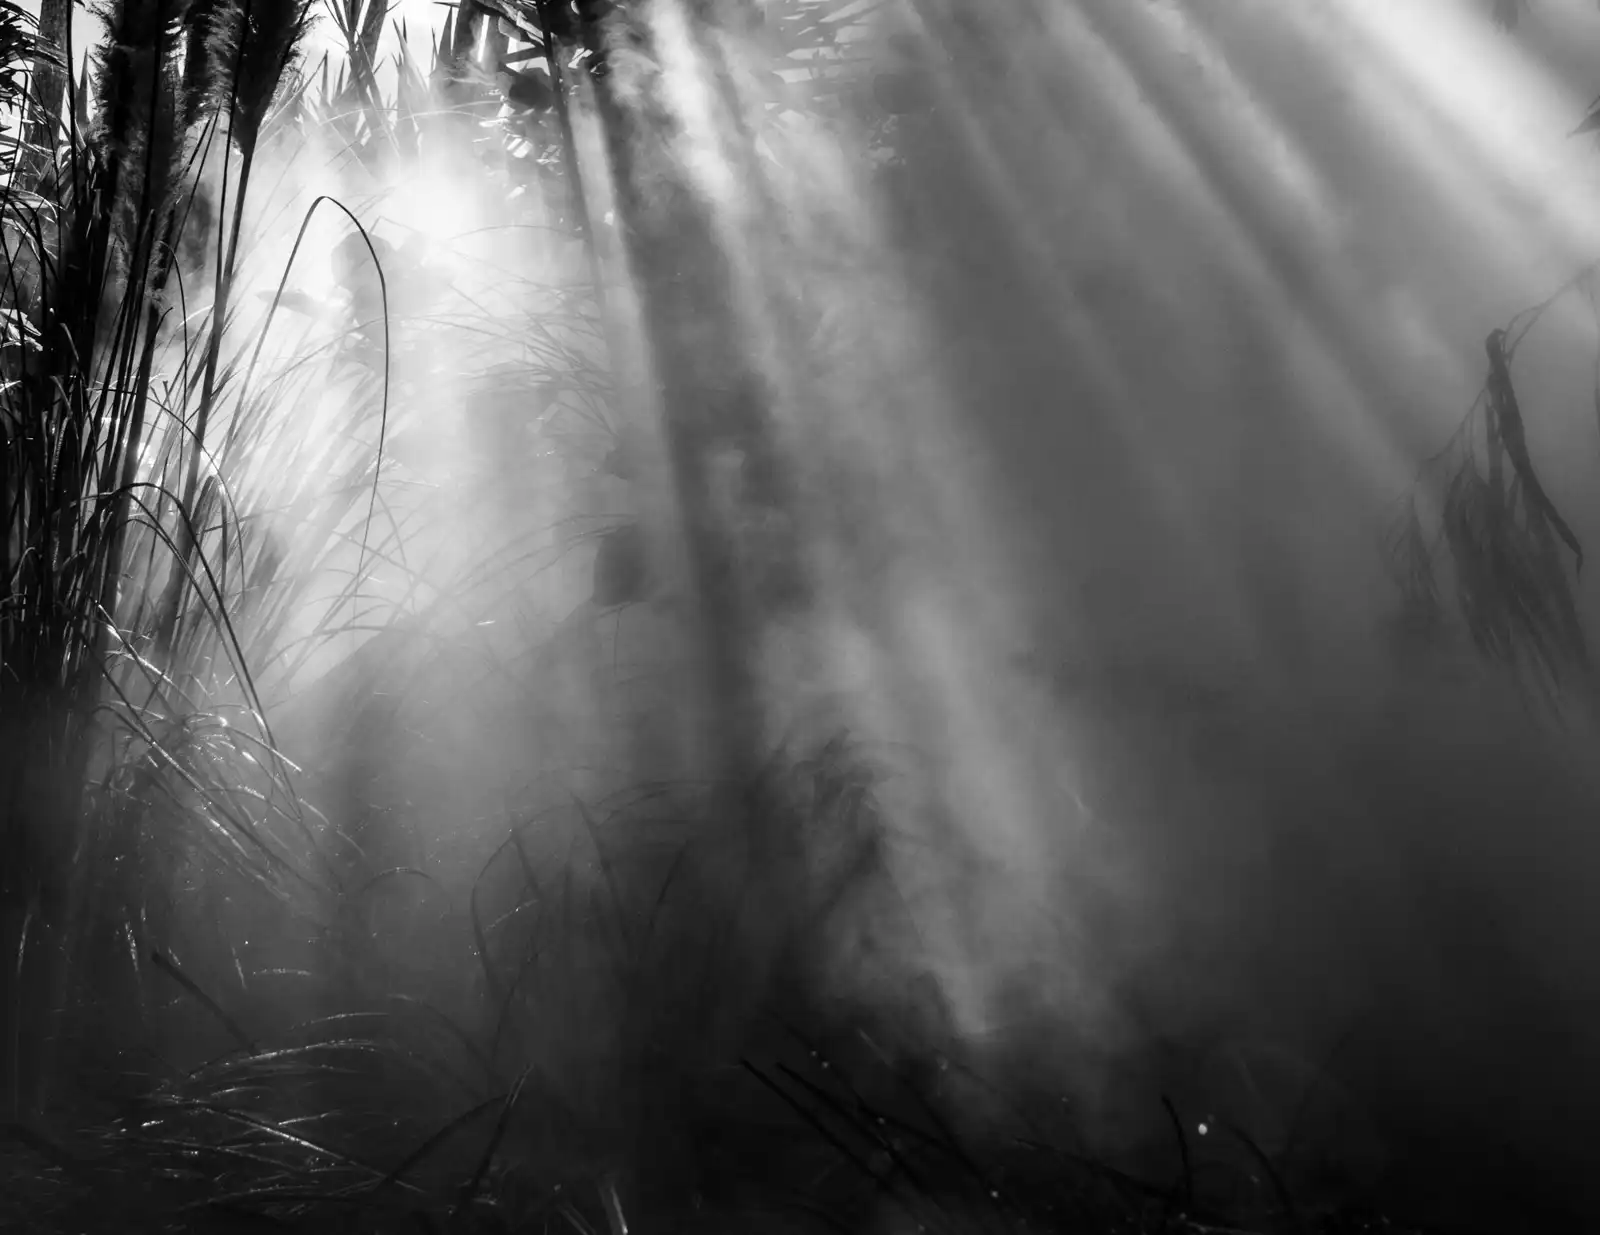
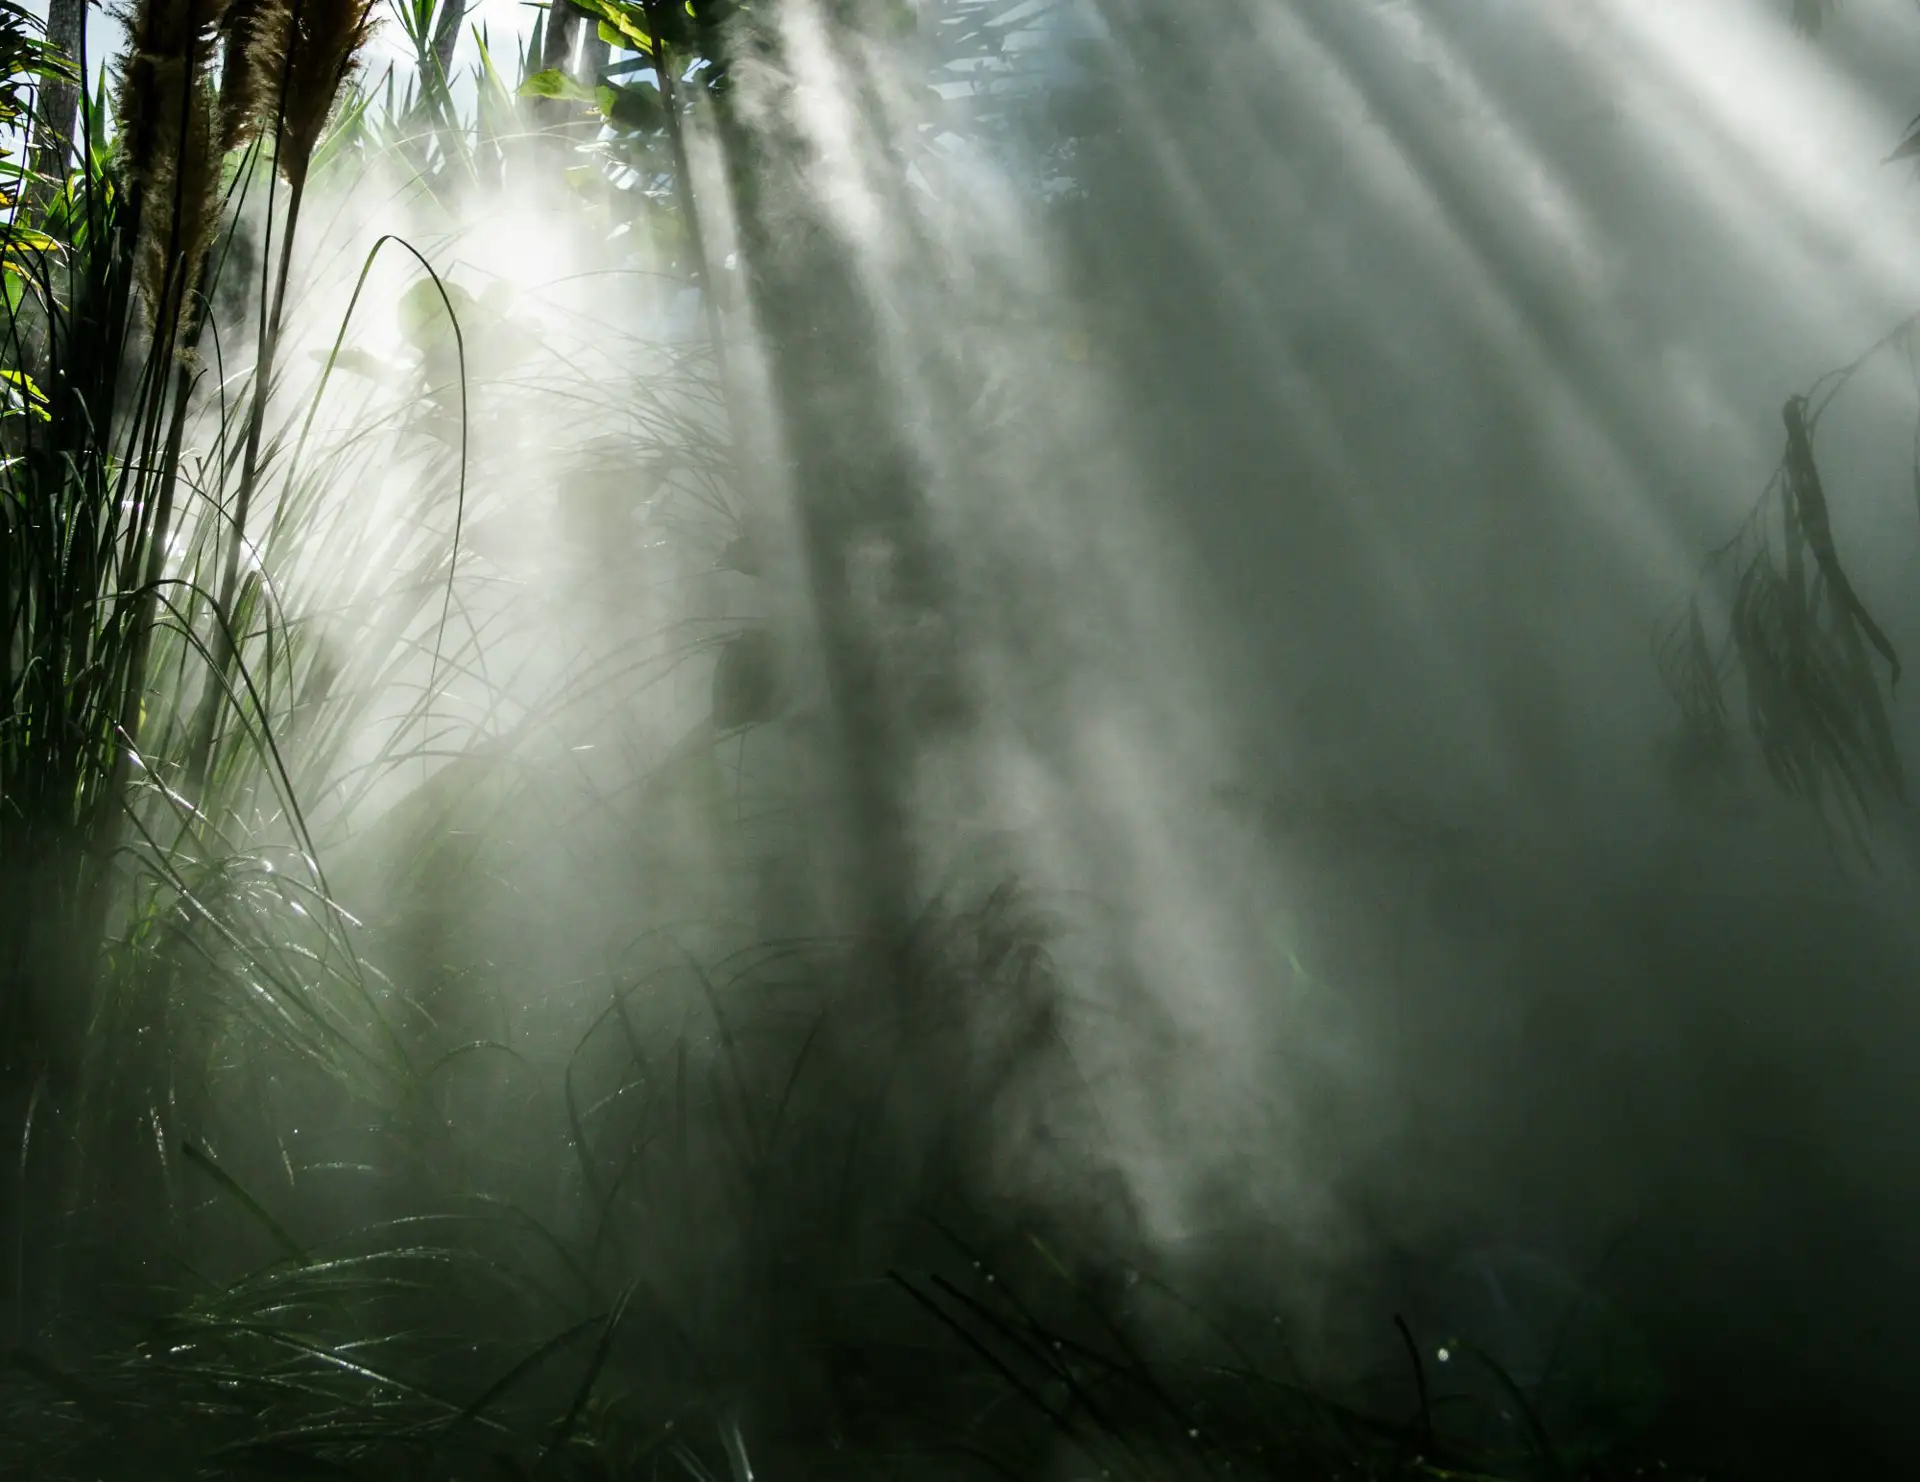
Drop the welcome's green gradient and blobs, show the mist photo in its own colours

diff --git a/app/welcome.css b/app/welcome.css
@@ -12,16 +12,8 @@
   from { opacity: 0; filter: blur(0.375rem); transform: translateY(0.5rem); }
   to { opacity: 1; filter: blur(0); transform: translateY(0); }
 }
-@keyframes a0-drift-a {
-  from { transform: translate3d(0, 0, 0) scale(1); }
-  to { transform: translate3d(var(--a0-drift-x), var(--a0-drift-y), 0) scale(1.12); }
-}
-@keyframes a0-drift-b {
-  from { transform: translate3d(0, 0, 0) scale(1.08); }
-  to { transform: translate3d(calc(var(--a0-drift-x) * -1.2), calc(var(--a0-drift-y) * -0.8), 0) scale(1); }
-}
 
-/* the ground sways slowly against the colour, a little off the colour's own beat so the two never line up */
+/* the ground sways slowly, like air moving through the mist */
 @keyframes a0-ground {
   0% { transform: translate3d(0, 0, 0) rotate(0deg) scale(1); }
   45% { transform: translate3d(-3%, 1.5%, 0) rotate(-1.2deg) scale(1.04); }
@@ -36,8 +28,6 @@
 .a0s {
   --a0-ease: cubic-bezier(0.23, 1, 0.32, 1);
   --a0-inset: var(--spacing-inset-screen);
-  --a0-drift-x: 2.5rem;
-  --a0-drift-y: 1.875rem;
   --a0-rise: 1.5rem;
   --a0-cx: 50%;
   --a0-cy: 78%;
@@ -47,7 +37,7 @@
   --a0-h: calc(100cqh + var(--top-chrome));
 }
 
-/* the green field, under the photograph */
+/* the opening's ground, under the waterfall photograph */
 .a0-field {
   display: none;
   position: absolute;
@@ -55,29 +45,16 @@
   z-index: -1;
   overflow: hidden;
   pointer-events: none;
-  background: linear-gradient(160deg, var(--color-field-light) 0%, var(--color-field) 40%, var(--color-field-deep) 100%);
+  background: var(--color-ground);
 }
-/* sun through mist and tall grass over the drifting colour, grey so the greens stay the field's own */
-.a0-field::after {
+/* the ground: sun through mist and tall grass, swaying slowly, under the liquid layer and the grain */
+.a0-field::before {
   content: "";
   position: absolute;
   inset: -8%;
   background: url(/img/intro-mist.webp) center / cover no-repeat;
-  mix-blend-mode: soft-light;
-  opacity: 0.55;
   animation: a0-ground 26s ease-in-out infinite alternate;
 }
-.a0-blob {
-  position: absolute;
-  border-radius: 50%;
-  aspect-ratio: 1;
-  animation: a0-drift-a 22s ease-in-out infinite alternate;
-}
-.a0-blob-b { animation: a0-drift-b 28s ease-in-out infinite alternate; }
-.a0-blob-1 { left: -56%; top: -21%; width: 164%; background: radial-gradient(closest-side, color-mix(in srgb, var(--color-field-shade) 85%, transparent), transparent); }
-.a0-blob-2 { left: 10%; top: -18%; width: 138%; aspect-ratio: 1.12; background: radial-gradient(closest-side, rgb(255 255 255 / 0.24), transparent); }
-.a0-blob-3 { left: 28%; top: 50%; width: 159%; background: radial-gradient(closest-side, color-mix(in srgb, var(--color-field-mid) 80%, transparent), transparent); }
-.a0-blob-4 { left: -46%; top: 64%; width: 138%; aspect-ratio: 1.17; background: radial-gradient(closest-side, color-mix(in srgb, var(--color-field-glow) 70%, transparent), transparent); }
 /* the photograph showing through around the mouse (components/WelcomeReveal.tsx), under the liquid layer.
    The mask makes the circle soft all the way out, there is no edge to see. */
 .a0-reveal {
@@ -104,7 +81,7 @@
   will-change: transform;
 }
 
-/* the liquid layer (components/WelcomeEther.tsx), between the blobs and the grain */
+/* the liquid layer (components/WelcomeEther.tsx), between the photograph and the grain */
 /* screen: the layer can only lighten what is under it, towards its green, and fades out into the field
    with no dark or grey edge */
 .a0-ether { position: absolute; inset: 0; mix-blend-mode: screen; }
@@ -386,8 +363,6 @@
     .a0s {
       --a0-inset: clamp(3rem, 6.67vw, var(--spacing-screen-desktop));
       --a0-gap: clamp(2.25rem, 5vw, 4.5rem);
-      --a0-drift-x: 5.625rem;
-      --a0-drift-y: 3.125rem;
       --a0-cx: 76%;
       --a0-cy: 58%;
       --a0-w: 100cqw;
@@ -403,7 +378,7 @@
 @media (prefers-reduced-motion: reduce) {
   @keyframes a0-word { from { opacity: 0; } to { opacity: 1; } }
   @keyframes a0-arrive { from { opacity: 0; } to { opacity: 1; } }
-  .a0-blob, .a0-field::after { animation: none; }
+  .a0-field::before { animation: none; }
 }
 
 @media (min-width: 64rem) {
@@ -413,8 +388,4 @@
     left: var(--spacing-inset-screen); /* the same inset as the tablet, 2rem from 64rem */
     height: 2.125rem;
   }
-  .a0-blob-1 { left: -18%; top: -20%; width: 68%; }
-  .a0-blob-2 { left: 25%; top: -29%; width: 69%; aspect-ratio: 1.22; }
-  .a0-blob-3 { left: 62%; top: 42%; width: 62%; }
-  .a0-blob-4 { left: 8%; top: 58%; width: 53%; aspect-ratio: 1.23; }
 }

diff --git a/components/Welcome.tsx b/components/Welcome.tsx
@@ -29,10 +29,6 @@ export default function Welcome({ still = false }: { still?: boolean }) {
       <div className="a02" data-screen={still ? "A0 · Welcome" : "Opening, A0 · Welcome"}>
         {!still && (
           <div className="a0-field" aria-hidden="true">
-            <div className="a0-blob a0-blob-1" />
-            <div className="a0-blob a0-blob-b a0-blob-2" />
-            <div className="a0-blob a0-blob-3" />
-            <div className="a0-blob a0-blob-b a0-blob-4" />
             <WelcomeReveal />
             <div className="a0-ether">
               <WelcomeEther />
